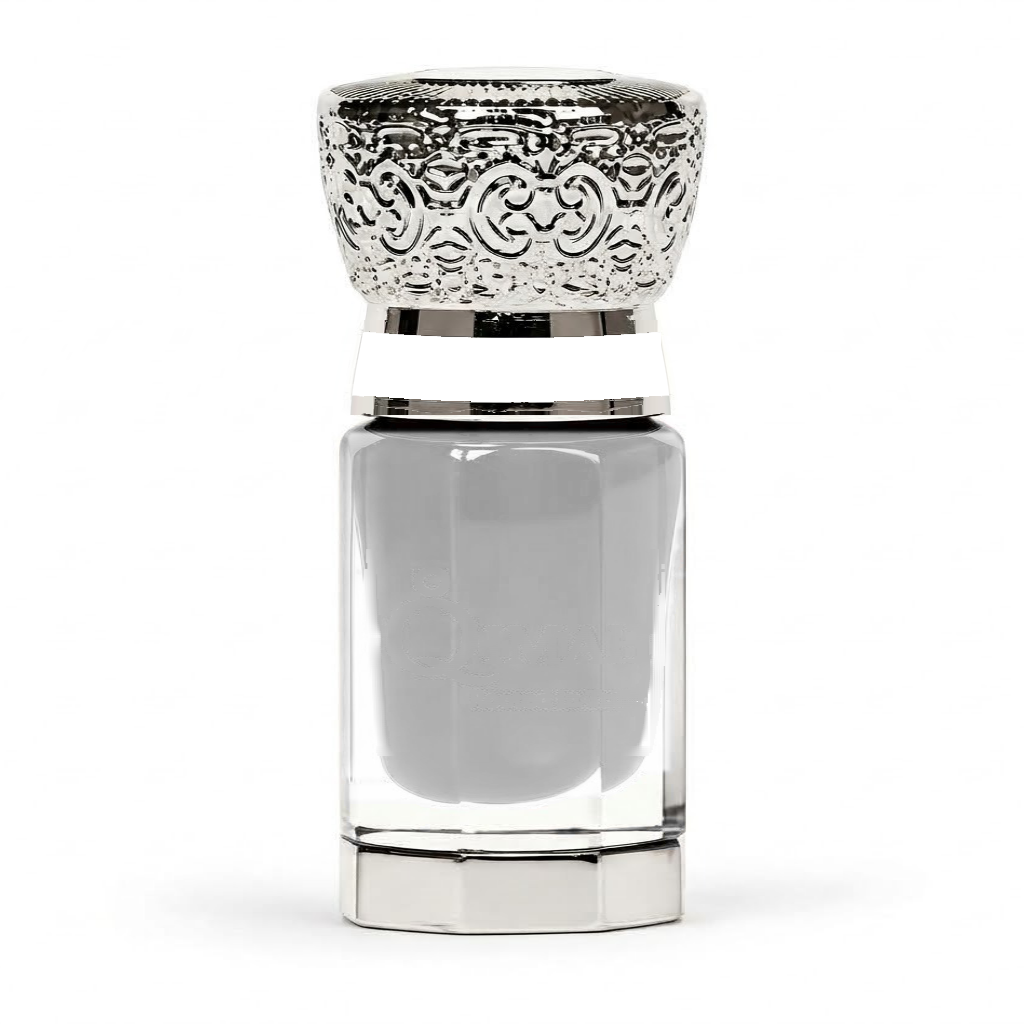
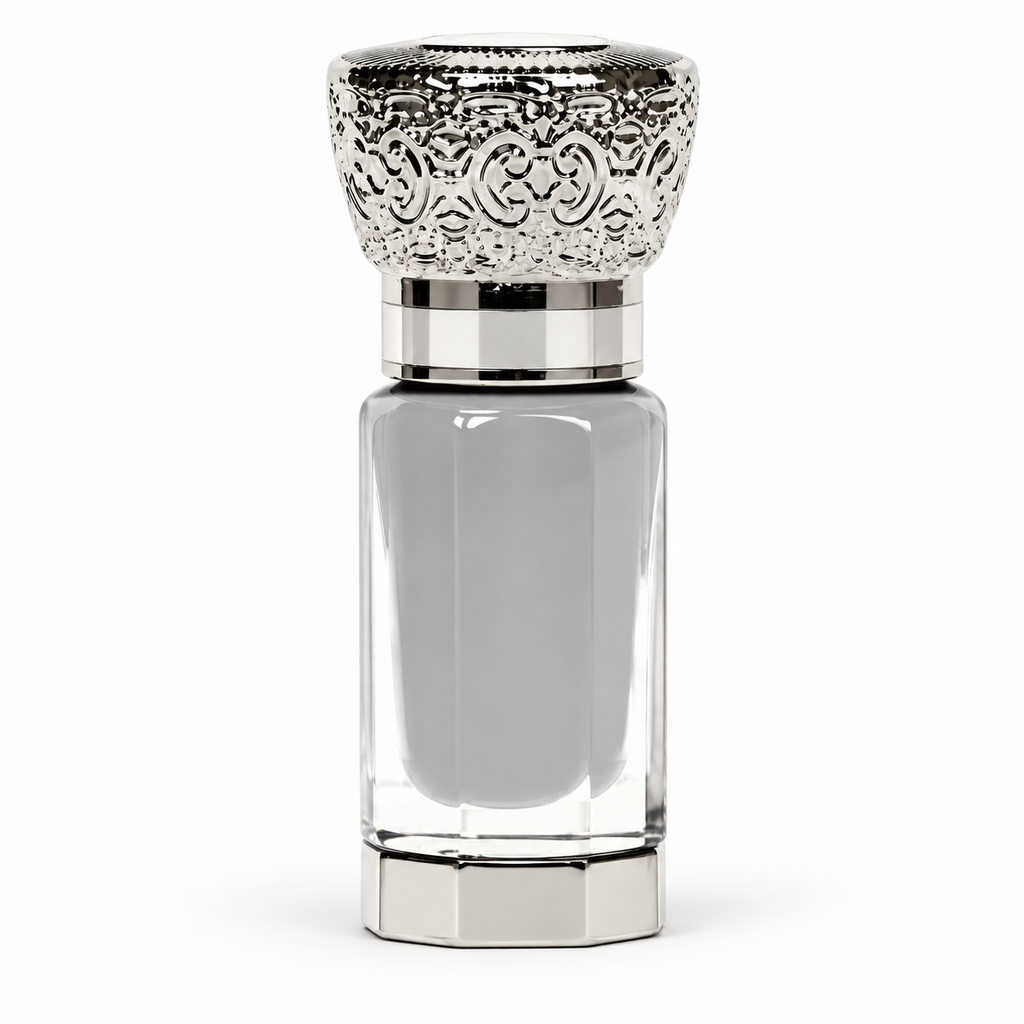
refactor: update luxury-6ml template assets and layout coordinates

Changed region(s): [[0.3125, 0.0312, 0.6875, 0.9375]]

diff --git a/src/lib/canvas/templates.ts b/src/lib/canvas/templates.ts
@@ -112,20 +112,20 @@ export const TEMPLATES: Record<string, ProductTemplate> = {
       logo: '/templates/luxury-6ml/logo.png',
     },
     label: {
-      x: 364,
-      y: 338,
-      width: 296,
-      height: 63,
+      x: 381,
+      y: 313,
+      width: 262,
+      height: 54,
       fontSize: 25,
       fontFamily: 'Inter, system-ui, -apple-system, sans-serif',
       fontWeight: '700',
       fontColor: '#000000',
     },
     oil: {
-      x: 342,
-      y: 428,
-      width: 348,
-      height: 382,
+      x: 371,
+      y: 392,
+      width: 281,
+      height: 419,
     },
     disabled: false,
   },
